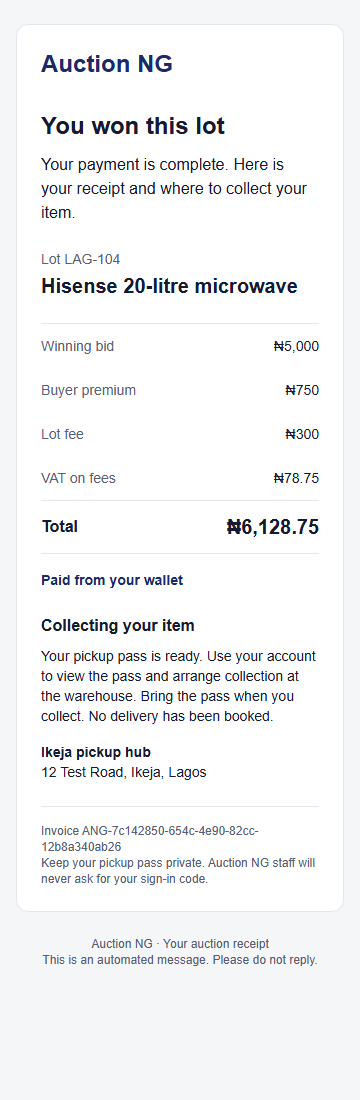
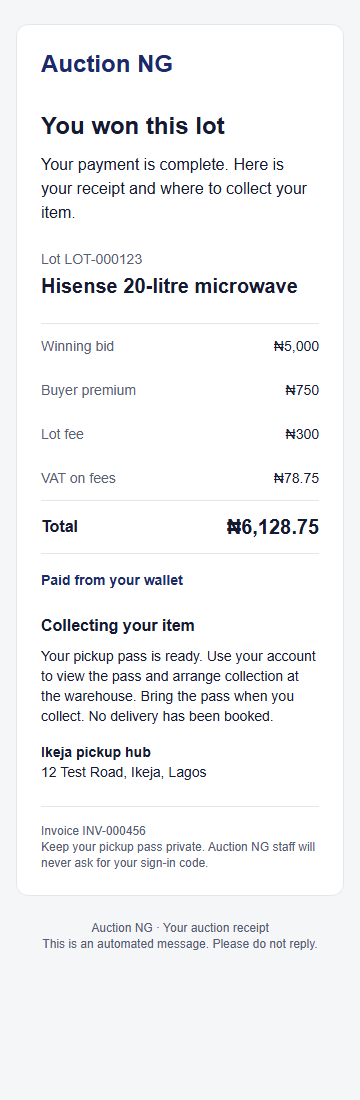
docs(references): document readable codes and refresh email previews

diff --git a/docs/specs/public-references.md b/docs/specs/public-references.md
@@ -1,0 +1,20 @@
+# Buyer-facing lot and invoice references
+
+Lots and invoices have two separate identifiers:
+
+| Purpose               | Lot example    | Invoice example    |
+| --------------------- | -------------- | ------------------ |
+| Buyer/staff reference | `LOT-000123`   | `INV-000456`       |
+| Internal identity     | UUID `lots.id` | UUID `invoices.id` |
+
+The owner requested readable alphanumeric references instead of UUIDs in buyer emails and invoices. Existing `lot_number` and invoice `number` columns already separate display references from internal identity; no replacement ID column is needed. PostgreSQL allocates the new references using independent, non-cycling bigint sequences. Codes have a minimum of six digits and grow instead of truncating when the counter exceeds six digits.
+
+Staff can omit `lotNumber` when creating a draft to receive an automatic `LOT-` reference. Existing friendly custom codes such as `LAG-104` and `DEMO-0001` remain supported. New intake requests reject a UUID used as a display reference. Allocation skips an existing matching code and uses the existing intake advisory lock for races with manually assigned lot codes; database unique constraints remain the final guarantee. Relisted drafts receive their own automatic reference.
+
+Invoices receive an `INV-` reference on creation. Retries return the same committed invoice and reference through the existing settlement record. Sequence values consumed by a rolled-back transaction are not reused, so gaps are expected. These references are not authentication credentials: ownership checks, API identifiers, foreign keys, ledger references and bid/payment idempotency keys continue to use UUIDs.
+
+The migration changes only defaults and adds the sequences/function. Existing lot codes, issued invoices, journal entries and previously sent emails are preserved. New winner-email fixtures use actual allocated lot codes; the reviewed email preview shows `LOT-000123` and `INV-000456`. Already delivered UUID-based synthetic emails remain in Mailpit as historical messages; search for a newer “You won LOT-” receipt.
+
+The [database dictionary](database-schema.md) still contains 31 tables and records both new defaults. No dependency or environment variable was added. Checks cover concurrent allocation, non-reuse after rollback, existing-code collisions, optional staff allocation, unchanged UUID identity and the existing settlement retry/concurrency suite.
+
+Validation: `pnpm lint`, `pnpm typecheck`, `pnpm test` (268 tests), `pnpm build` (nine workspace builds) and `pnpm test:e2e` (12 browser checks) pass. The existing 1,000-lot closing check completed in 80.347 seconds; bid acceptance p95 was 15.23 ms, 1,000-viewer fanout p95 255.77 ms and catalogue p95 69.6 ms with four SQL queries. All existing performance limits remain unchanged. Email screenshots were refreshed and reviewed at 360, 768 and 1280 pixels.

diff --git a/docs/decisions.md b/docs/decisions.md
@@ -4,6 +4,7 @@ Place this file at `docs/decisions.md`. Add newest decisions at the top. Agents 
 
 | Date       | Decision                                                                                                                                                                                  | Reason                                                                                                                                  |
 | ---------- | ----------------------------------------------------------------------------------------------------------------------------------------------------------------------------------------- | --------------------------------------------------------------------------------------------------------------------------------------- |
+| 2026-10-25 | Owner requested buyer-friendly references: generate LOT-000123 and INV-000456 in the existing display fields while retaining UUID identities and all existing issued references           | Make emails, warehouse lookup and support conversations readable without changing money, ownership or idempotency keys                  |
 | 2026-10-25 | Owner approved T12: retry and flag system failures without buyer strikes; genuinely unpaid wins after 24 hours receive one strike and a new draft relisting for staff scheduling          | Preserve original auction history and avoid penalising buyers for infrastructure errors                                                 |
 | 2026-10-25 | T12 freezes Redis state, verifies a contiguous PostgreSQL receipt prefix, then commits the immutable winner before atomic grouped capture, invoice, pickup pass and notification          | Prevent late bids, persistence gaps and retries from changing the winner or charging twice                                              |
 | 2026-10-25 | Owner requested professional winner emails; reuse shared brand tokens and local Mailpit, encrypted outbox payloads and authenticated pickup-token retrieval                               | Provide clear fee/payment/pickup information without new dependencies, external mail configuration or bearer tokens in email            |

diff --git a/docs/specs/catalogue.md b/docs/specs/catalogue.md
@@ -31,7 +31,7 @@ All routes require an active `admin` or `intake` account, the existing authentic
 
 **Staff SSO/MFA is not configured yet.** The existing buyer email-code path intentionally cannot authenticate staff. These endpoints fail closed in the local product; no test login, role-changing endpoint, shared admin token or fallback was added. Tests substitute identities only inside the test process to exercise HTTP permissions and contracts. Real staff onboarding remains a prerequisite to operational intake.
 
-Only draft lots may be edited or receive images. Row locks and optimistic versions prevent lost updates; duplicate lot numbers return 409. Category/location references and start/end order are validated. There is no publishing, scheduling, cancellation, live-price update or settlement endpoint in this task. No ledger or bid operation changes.
+Only draft lots may be edited or receive images. Row locks and optimistic versions prevent lost updates; duplicate lot numbers return 409. Category/location references and start/end order are validated. Staff may omit `lotNumber` for an automatically allocated `LOT-000123` reference; friendly custom codes remain supported and UUID display codes are rejected. See [public references](public-references.md). There is no publishing, scheduling, cancellation, live-price update or settlement endpoint in this task. No ledger or bid operation changes.
 
 ## Images
 

diff --git a/docs/TASKS.md b/docs/TASKS.md
@@ -140,6 +140,7 @@ Implemented on 2026-10-25: authenticated Socket.IO lot/user rooms, Redis-backed 
 Implemented on 2026-10-25 in [draft PR #13](https://github.com/bhoyee/auction-ng/pull/13), stacked on T11. [Settlement contracts](specs/lot-closing.md); [validation and local commands](t12-validation.md); [winner-email layouts](design/t12-email/README.md). All 260 tests, 12 browser checks and nine production builds pass. The mixed 1,000-lot closing test completes in about 80 seconds. **MONEY/BID CHANGE — needs human review** before merge.
 
 **Depends on:** T10, T05
+**Owner-requested follow-up:** [Readable lot/invoice references](specs/public-references.md) replace UUID-generated display codes for new records; internal UUIDs and existing issued references remain unchanged.
 **Build:** scheduler that closes lots at `endAt` (respecting soft-close extensions); freezes winner in PostgreSQL; captures hold; creates invoice and invoice lines using `fees.ts`; creates pickup fulfilment with QR token; notifies winner; releases losers' holds; handles insufficient funds (24 h to pay, then strike and relist).
 **Done when:** running the closer twice on the same lot charges once; 1,000 lots closing within 10 minutes all close correctly; tests cover no-bid lots, extended lots and failed captures.
 

diff --git a/docs/design/t12-email/README.md b/docs/design/t12-email/README.md
@@ -4,6 +4,8 @@ Reviewed at [360 px](winner-email-360.png), [768 px](winner-email-768.png) and [
 
 The layout uses the shared brand tokens, a Schibsted Grotesk-first email font stack with Arial fallback, indigo wordmark, flat bordered surface and sentence-case headings. Fees and the total use tabular numerals. No remote font or image request is needed. The inbox may use the fallback font when it cannot load Schibsted Grotesk locally.
 
+The owner-requested reference follow-up refreshes these previews with `LOT-000123` and `INV-000456`. UUIDs stay internal; the fee layout and amounts are unchanged.
+
 Checks: no horizontal overflow at any size; readable itemised Naira amounts; clear payment and pickup instructions; no gradients, shadows, illustrations, invented statistics, decorative yellow or private pickup token. Plain text accompanies HTML. Product screens and pickup booking remain later tasks.
 
 Regenerate the email asset with `pnpm tokens:generate`. Run `pnpm exec playwright test tests/e2e/winner-email.spec.ts` to render the layouts again. The fixture is synthetic and contains no credentials or personal data.
